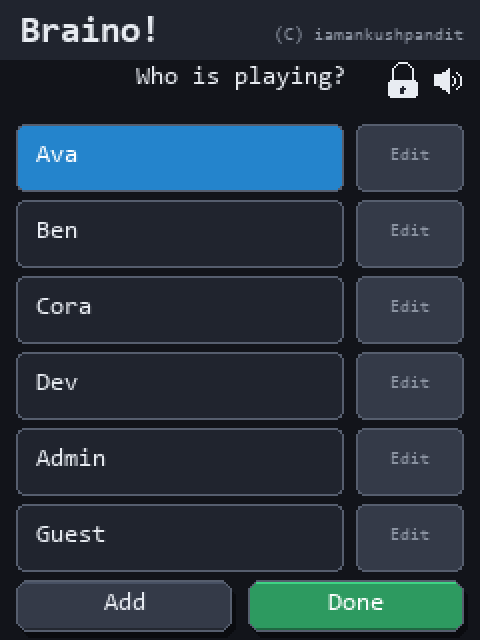
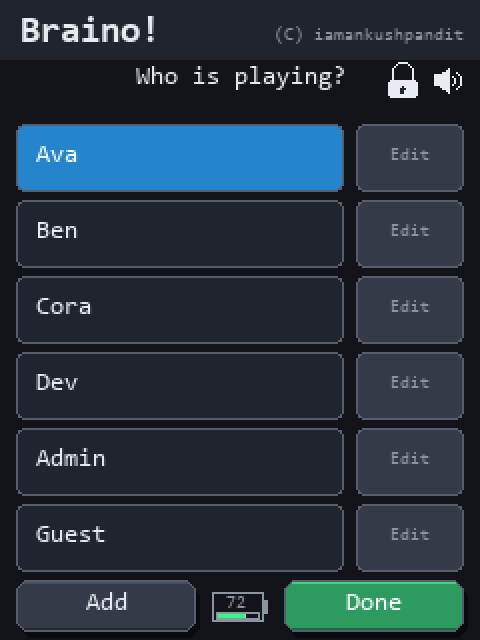
Show the battery on the player picker, between Add Player and Done
The picker has no top bar, so it was the one screen where the battery could
not be seen. The badge now sits in its own slot between the two bottom
buttons, which give up the badge's width plus a margin, and only on a board
with battery sense. renderChrome() repaints just the badge, the speaker or
the header strip, whichever changed; it used to answer false, which made
every battery tick a full repaint. Mock-ups regenerated.

Drafted with an AI coding assistant; reviewed by hand and tested on a Cyber
Deck Plus.

Changed region(s): [[0.375, 0.9062, 0.625, 1.0], [0.6875, 0.9062, 0.8438, 0.9688], [0.1875, 0.9062, 0.3125, 0.9688]]

diff --git a/src/games/ProfileApp.cpp b/src/games/ProfileApp.cpp
@@ -85,13 +85,21 @@ Rect ProfileApp::menuRect(uint8_t i, int16_t screenW, int16_t screenH) const {
                 static_cast<int16_t>(rowsTop(tall) + i * rowsPitch(tall)),
                 rowsMenuW(tall), rowsHeight(tall)};
 }
-Rect ProfileApp::addRect(int16_t screenW, int16_t screenH) const {
-    const int16_t w = static_cast<int16_t>((screenW - 24) / 2);
+int16_t ProfileApp::batterySlot(Ui::Renderer& tft) {
+    /* The badge's width at 100 -- the width it always has -- so the slot
+     * does not move as the charge falls. 0 where there is no badge. */
+    const int16_t badge = Ui::batteryBadgeWidth(tft, 100);
+    return badge > 0 ? static_cast<int16_t>(badge + 16) : 0;
+}
+Rect ProfileApp::addRect(int16_t screenW, int16_t screenH, int16_t slot) const {
+    const int16_t gap = slot > 8 ? slot : 8;
+    const int16_t w = static_cast<int16_t>((screenW - 16 - gap) / 2);
     return Rect{8, static_cast<int16_t>(screenH - 30), w, 26};
 }
-Rect ProfileApp::doneRect(int16_t screenW, int16_t screenH) const {
-    const int16_t w = static_cast<int16_t>((screenW - 24) / 2);
-    return Rect{static_cast<int16_t>(16 + w), static_cast<int16_t>(screenH - 30), w, 26};
+Rect ProfileApp::doneRect(int16_t screenW, int16_t screenH, int16_t slot) const {
+    const int16_t gap = slot > 8 ? slot : 8;
+    const int16_t w = static_cast<int16_t>((screenW - 16 - gap) / 2);
+    return Rect{static_cast<int16_t>(screenW - 8 - w), static_cast<int16_t>(screenH - 30), w, 26};
 }
 
 Rect ProfileApp::keyRect(uint8_t row, uint8_t col, int16_t screenW, int16_t screenH) const {
@@ -197,7 +205,8 @@ void ProfileApp::update(GameHost& host, const TouchPoint& touch) {
                 return;
             }
         }
-        if (addRect(W, H).contains(touch.x, touch.y, TOUCH_HIT_SLOP) &&
+        const int16_t slot = batterySlot(host.display());
+        if (addRect(W, H, slot).contains(touch.x, touch.y, TOUCH_HIT_SLOP) &&
             board.playerCount() < Board::MAX_PLAYERS) {
             editing_ = 0xFF;
             draft_ = "";
@@ -205,7 +214,7 @@ void ProfileApp::update(GameHost& host, const TouchPoint& touch) {
             markFullDirty();
             return;
         }
-        if (doneRect(W, H).contains(touch.x, touch.y, TOUCH_HIT_SLOP)) {
+        if (doneRect(W, H, slot).contains(touch.x, touch.y, TOUCH_HIT_SLOP)) {
             host.goHome();
         }
         return;
@@ -298,8 +307,64 @@ void ProfileApp::update(GameHost& host, const TouchPoint& touch) {
 }
 
 bool ProfileApp::renderChrome(GameHost& host) {
-    (void)host;
-    return false;   // see the header -- nothing here to repaint in isolation
+    if (phase_ != Phase::Pick) {
+        return false;   // no badge, no speaker: the old full repaint
+    }
+    Board& board = host.board();
+    Ui::Renderer& tft = host.display();
+    const int16_t W = static_cast<int16_t>(tft.width());
+    const int16_t H = static_cast<int16_t>(tft.height());
+    bool painted = false;
+    const int8_t pct = board.getBatteryPercent();
+    if (pct != shownPct_) {
+        drawBatterySlot(tft, W, H, pct);
+        painted = true;
+    }
+    const bool muted = !board.soundEnabled();
+    if (Board::hasSound() && muted != shownMuted_) {
+        const Rect s = LauncherLayout::pickerSpeakerRect(W);
+        tft.fillRect(s.x, s.y, s.w, s.h, Ui::bg());
+        Ui::drawSpeakerIcon(tft, s, muted, Ui::text());
+        shownMuted_ = muted;
+        painted = true;
+    }
+    /* Neither changed, so it was a notification coming or going over the
+     * header strip: put the strip back. */
+    if (!painted) {
+        drawHeaderStrip(tft, W, H);
+    }
+    return true;
+}
+
+void ProfileApp::drawHeaderStrip(Ui::Renderer& tft, int16_t W, int16_t H) {
+    const Rect header = headerRect(W, H);
+    tft.fillRect(header.x, header.y, header.w, header.h, Ui::surface());
+    /* The mark rather than the name in font 4 -- the wordmark variant is
+     * cut to that height, so the header's geometry does not move. */
+    Ui::drawLogo(tft,
+                 static_cast<int16_t>(10 + Ui::logoCentre(Ui::Logo::Word)),
+                 15, Ui::text(), Ui::Logo::Word);
+    // The mark is the brand's, the copyright is the author's -- two
+    // different facts, and AppVersion.h is where both are spelled.
+    tft.setTextColor(Ui::muted(), Ui::surface());
+    tft.setTextDatum(MR_DATUM);
+    tft.drawString(BRAINO_COPYRIGHT_SHORT, W - 8, 15, 1);
+    tft.setTextDatum(TL_DATUM);
+}
+
+/* The badge in the gap between Add Player and Done, centred on that row.
+ * Its own small rect is cleared first, so a reading that becomes unusable
+ * leaves nothing behind; nothing else on the screen is touched. */
+void ProfileApp::drawBatterySlot(Ui::Renderer& tft, int16_t W, int16_t H, int8_t percent) {
+    shownPct_ = percent;
+    const int16_t slot = batterySlot(tft);
+    if (slot <= 0) return;
+    const Rect add = addRect(W, H, slot);
+    const int16_t cy = static_cast<int16_t>(add.y + add.h / 2);
+    const int16_t badge = static_cast<int16_t>(slot - 16);
+    tft.fillRect(static_cast<int16_t>(W / 2 - badge / 2 - 1), static_cast<int16_t>(cy - 9),
+                 static_cast<int16_t>(badge + 2), 18, Ui::bg());
+    Ui::drawBatteryBadge(tft, static_cast<int16_t>(W / 2), cy, percent, Ui::bg());
 }
 
 bool ProfileApp::headerControls(int16_t screenW, int16_t screenH, Rect& lock,
@@ -358,20 +423,7 @@ void ProfileApp::renderDynamic(GameHost& host) {
     tft.setTextDatum(TC_DATUM);
 
     if (phase_ == Phase::Pick) {
-        const Rect header = headerRect(W, H);
-        tft.fillRect(header.x, header.y, header.w, header.h, Ui::surface());
-
-        /* The mark rather than the name in font 4 -- the wordmark variant is
-         * cut to that height, so the header's geometry does not move. */
-        Ui::drawLogo(tft,
-                     static_cast<int16_t>(10 + Ui::logoCentre(Ui::Logo::Word)),
-                     15, Ui::text(), Ui::Logo::Word);
-
-        // The mark is the brand's, the copyright is the author's -- two
-        // different facts, and AppVersion.h is where both are spelled.
-        tft.setTextColor(Ui::muted(), Ui::surface());
-        tft.setTextDatum(MR_DATUM);
-        tft.drawString(BRAINO_COPYRIGHT_SHORT, W - 8, 15, 1);
+        drawHeaderStrip(tft, W, H);
 
         /* Both lines below sit on the background between the header and the
          * first row. They used to overlap each other by a pixel, and in
@@ -392,6 +444,7 @@ void ProfileApp::renderDynamic(GameHost& host) {
         if (Board::hasSound()) {
             Ui::drawSpeakerIcon(tft, LauncherLayout::pickerSpeakerRect(W), !board.soundEnabled(),
                                 Ui::text());
+            shownMuted_ = !board.soundEnabled();
         }
 
         const uint8_t active = board.activeProfile();
@@ -425,10 +478,12 @@ void ProfileApp::renderDynamic(GameHost& host) {
         char label[16];
         snprintf(label, sizeof(label), canAdd ? "Add Player" : "Max %u",
                  static_cast<unsigned>(Board::MAX_PLAYERS));
-        Ui::drawButton(tft, addRect(W, H), label,
+        const int16_t slot = batterySlot(tft);
+        Ui::drawButton(tft, addRect(W, H, slot), label,
                        canAdd ? Ui::rgb(45, 154, 96) : Ui::surface(),
                        Ui::outline(), canAdd ? TFT_WHITE : Ui::muted(), false, 2);
-        Ui::drawButton(tft, doneRect(W, H), "Done", Ui::panel(), Ui::outline(), Ui::text(), false, 2);
+        Ui::drawButton(tft, doneRect(W, H, slot), "Done", Ui::panel(), Ui::outline(), Ui::text(), false, 2);
+        drawBatterySlot(tft, W, H, board.getBatteryPercent());
 
         tft.setTextDatum(TL_DATUM);
         return;

diff --git a/src/games/ProfileApp.h b/src/games/ProfileApp.h
@@ -23,13 +23,14 @@ public:
     void renderStatic(GameHost& host) override;
     void renderDynamic(GameHost& host) override;
 
-    /* This screen draws no top bar -- it carries its own wordmark header, and
-     * nothing on it tracks the clock or the battery, so the badge ticks that
-     * make renderChrome() worth having have nothing to update here. The one
-     * chrome event that can reach it is a notification landing on the header,
-     * which is rare enough that a full repaint is the honest answer. Returning
-     * false asks the runtime for exactly that, and keeps the base class from
-     * painting a top bar this screen does not own. */
+    /* This screen draws no top bar -- it carries its own wordmark header --
+     * but the picker shows the battery, between Add Player and Done, and the
+     * speaker, so three chrome events reach it: the percentage changing, mute
+     * being toggled, and a notification coming or going over the header. Each
+     * repaints exactly its own piece -- the badge, the speaker, or the 30px
+     * header strip -- and never the screen: a full repaint for a battery tick
+     * is the flash the invalidation rule exists to stop. The other phases
+     * show none of those and return false, as the picker used to. */
     bool renderChrome(GameHost& host) override;
 
     /* The picker carries its own padlock and speaker (LauncherLayout's
@@ -55,8 +56,15 @@ private:
     Rect pinConfirmRect(int16_t screenW, int16_t screenH) const;
     Rect pinCancelRect(int16_t screenW, int16_t screenH) const;
     Rect renameCancelRect(int16_t screenW, int16_t screenH) const;
-    Rect addRect(int16_t screenW, int16_t screenH) const;
-    Rect doneRect(int16_t screenW, int16_t screenH) const;
+    /* The gap between Add Player and Done, which holds the battery badge: its
+     * measured width plus air either side, or 0 on a board with no battery
+     * sense, whose buttons keep their old width. Hit tests and drawing both
+     * ask, so the badge and the buttons cannot come to overlap. */
+    static int16_t batterySlot(Ui::Renderer& tft);
+    Rect addRect(int16_t screenW, int16_t screenH, int16_t slot) const;
+    Rect doneRect(int16_t screenW, int16_t screenH, int16_t slot) const;
+    void drawHeaderStrip(Ui::Renderer& tft, int16_t W, int16_t H);
+    void drawBatterySlot(Ui::Renderer& tft, int16_t W, int16_t H, int8_t percent);
     Rect keyRect(uint8_t row, uint8_t col, int16_t screenW, int16_t screenH) const;
     Rect menuActionRect(uint8_t i, int16_t screenW, int16_t screenH) const;
     Rect gameCheckRect(uint8_t row, int16_t screenW) const;
@@ -92,6 +100,10 @@ private:
     uint16_t adminPinAttempt_ = 0;
     uint8_t adminPinDigitCount_ = 0;
     uint8_t profileToSwitchTo_ = 0;
+    /* What the picker last drew in its chrome, so renderChrome() repaints
+     * only what changed. */
+    int8_t shownPct_ = -2;
+    bool shownMuted_ = false;
     PinPurpose pinPurpose_ = PinPurpose::Switch;
     String draft_;
 };

diff --git a/tools/gen_screens.py b/tools/gen_screens.py
@@ -3678,10 +3678,13 @@ def profiles_pick():
             d.rounded_rectangle([W - 8 - 62, y, W - 8, y + 23], 4, fill=SURFACE, outline=OUTLINE)
             d.text((W - 8 - 62 + (62 - d.textlength("Edit", font=F2)) / 2, y + 23 / 2 - 6),
                    "Edit", font=F2, fill=MUTED)
-    # Add Player and Done buttons
-    btn_w = (W - 24) // 2
+    # Add Player and Done, with the battery between them -- ProfileApp's
+    # batterySlot(): the badge's width at 100 plus 8px of air either side.
+    slot = battery_width(100) + 16
+    btn_w = (W - 16 - slot) // 2
     button(d, (8, H - 30, btn_w, 26), "Add Player", GREEN, WHITE)
-    button(d, (16 + btn_w, H - 30, btn_w, 26), "Done")
+    button(d, (W - 8 - btn_w, H - 30, btn_w, 26), "Done")
+    battery_badge(d, W // 2, H - 30 + 13)
     return im
 
 
@@ -4245,9 +4248,11 @@ def profiles_tall():
                             fill=PANEL, outline=OUTLINE)
         d.text((PW - 8 - menu_w + menu_w / 2 - d.textlength("Edit", font=F1) / 2,
                 y + row_h / 2 - 5), "Edit", font=F1, fill=MUTED)
-    bw = (PW - 24) // 2
+    slot = battery_width(100) + 16
+    bw = (PW - 16 - slot) // 2
     button(d, (8, PH - 30, bw, 26), "Add")
-    button(d, (16 + bw, PH - 30, bw, 26), "Done", GREEN, WHITE)
+    button(d, (PW - 8 - bw, PH - 30, bw, 26), "Done", GREEN, WHITE)
+    battery_badge(d, PW // 2, PH - 30 + 13)
     return im
 
 

diff --git a/CHANGELOG.md b/CHANGELOG.md
@@ -27,6 +27,12 @@ silently. None of the Attaky code is in these images: the only cost to them
 is a few hundred bytes of flash from the file splits, and their RAM is
 unchanged.
 
+**The player picker shows the battery**, between Add Player and Done, and it
+repaints only what changed: the badge when the charge moves, the speaker when
+mute is toggled, the header strip when a notification comes or goes. It used
+to answer every header change with a full repaint, which was harmless only
+while it showed nothing that changed.
+
 **The selector's arithmetic and job table are shared.** `ui/FocusMath.h` and
 `hal/ControlJobs.h` moved from `host/` into `src/` so the Attaky Core's
 selector uses the same two pieces as the RG40XX V's; the host keeps its old

diff --git a/README.md b/README.md
@@ -1044,7 +1044,7 @@ Four more screens, all of them ordinary `Game` subclasses like everything else:
 
 - **Profiles** -- shown at boot; picks whose scores are being written. Carries
   the Braino! product mark in a branded header, with the copyright line
-  beside it.
+  beside it, and the battery between Add Player and Done.
 - **Scores** -- two tabs:
   - **Mine** shows bests and worsts for the active player, per game.
   - **Device** shows the device-wide best and its holder across every player on
